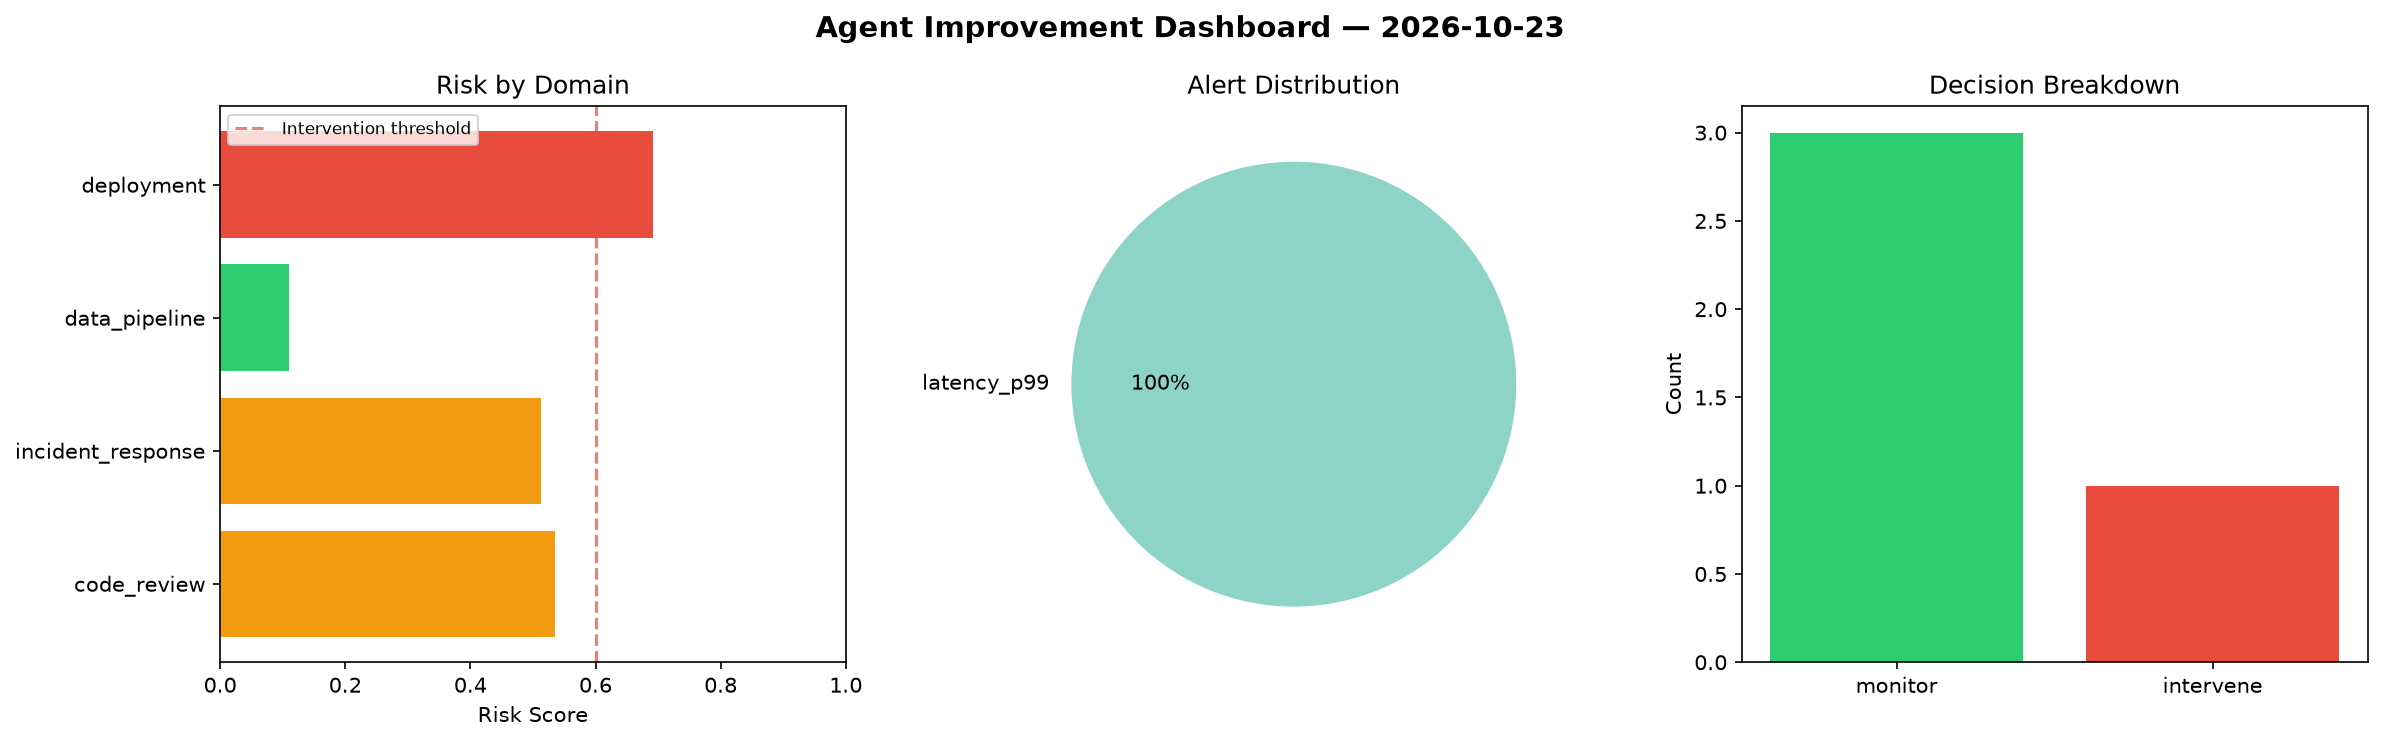
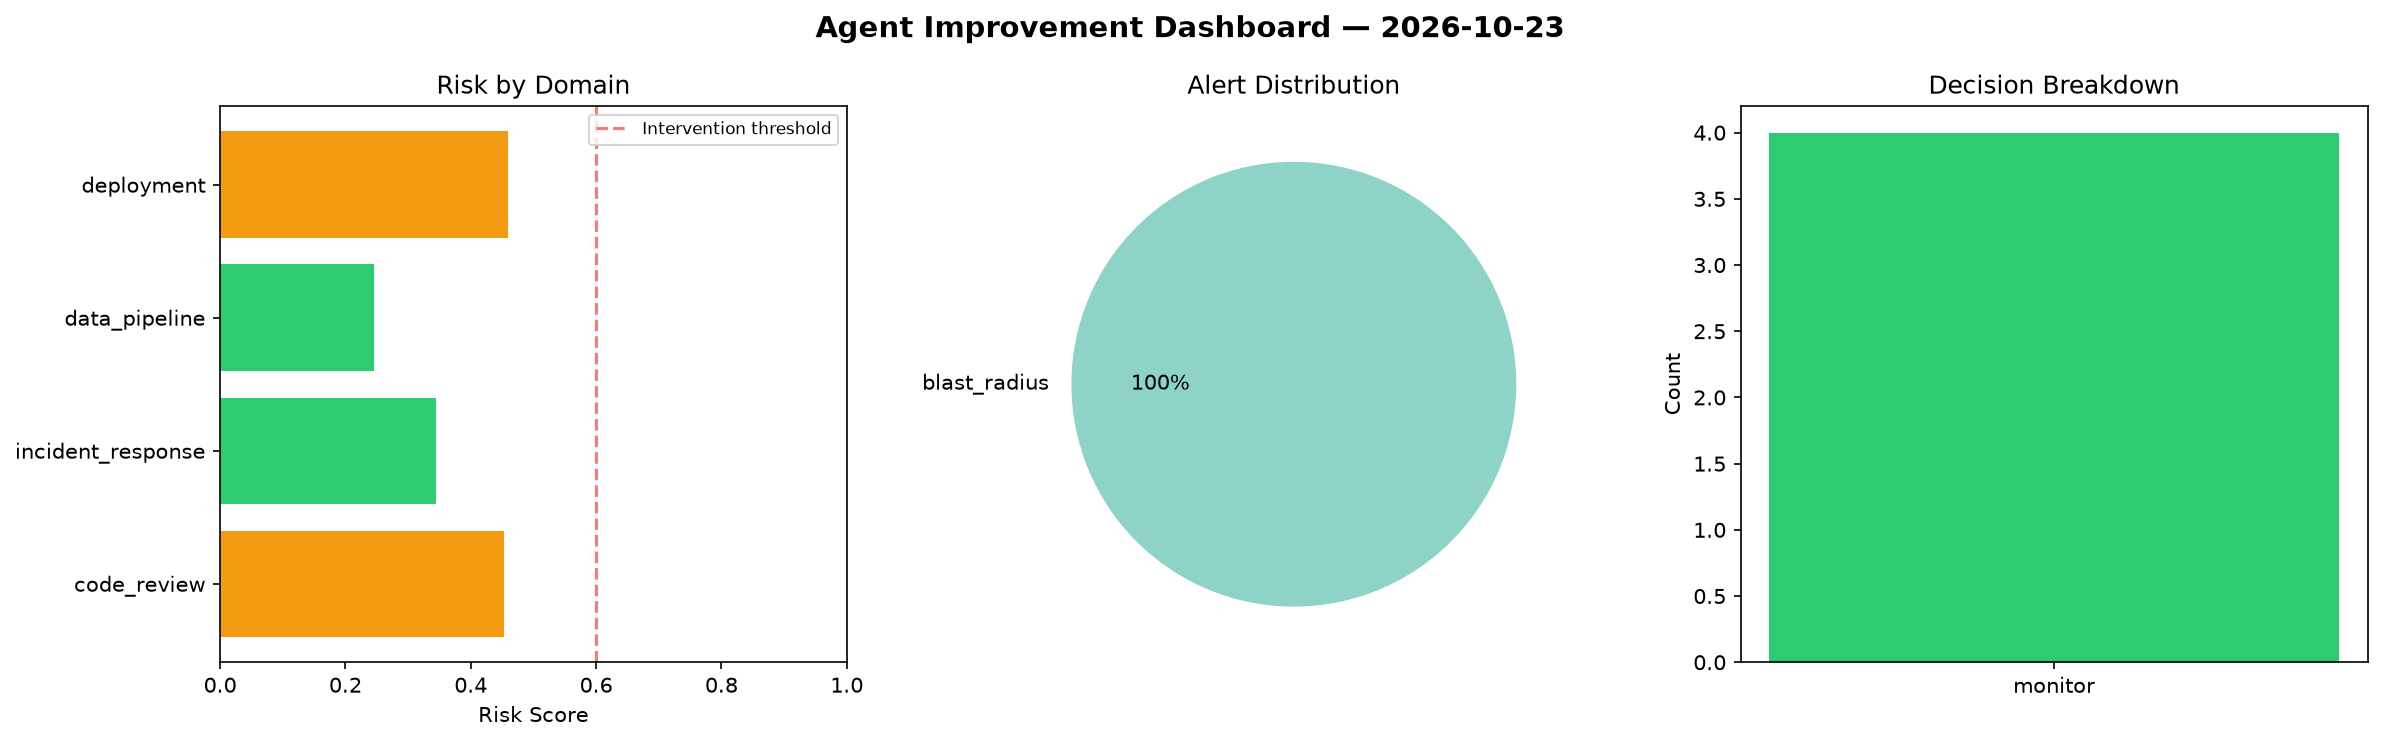
agent-improvement: daily cycle 2026-10-23T18:22

diff --git a/logs/2026-10-23.md b/logs/2026-10-23.md
@@ -1,6 +1,6 @@
 # Agent Improvement Report — 2026-10-23
 
-**Cycle ID:** `eebb1739` | **Avg Risk:** 0.4624 | **Interventions:** 1/4
+**Cycle ID:** `3c8c8497` | **Avg Risk:** 0.3752 | **Interventions:** 0/4
 
 ![Dashboard](2026-10-23_dashboard.png)
 
@@ -10,18 +10,18 @@
 
 | Domain | Risk Score | Decision | Alerts |
 |--------|-----------|----------|--------|
-| code_review | 0.5348 | monitor | none |
-| incident_response | 0.5127 | monitor | none |
-| data_pipeline | 0.1102 | monitor | none |
-| deployment | 0.6918 | intervene | latency_p99 |
+| code_review | 0.4522 | monitor | none |
+| incident_response | 0.344 | monitor | blast_radius |
+| data_pipeline | 0.2453 | monitor | none |
+| deployment | 0.4592 | monitor | none |
 
 ## Delta vs Yesterday
 
 | Domain | Today | Yesterday | Change |
 |--------|-------|-----------|--------|
-| code_review | 0.5348 | 0.527 | 📈 1.5% |
-| incident_response | 0.5127 | 0.5378 | 📉 -4.7% |
-| data_pipeline | 0.1102 | 0.493 | 📉 -77.6% |
-| deployment | 0.6918 | 0.5244 | 📈 31.9% |
+| code_review | 0.4522 | 0.527 | 📉 -14.2% |
+| incident_response | 0.344 | 0.5378 | 📉 -36.0% |
+| data_pipeline | 0.2453 | 0.493 | 📉 -50.2% |
+| deployment | 0.4592 | 0.5244 | 📉 -12.4% |
 
 **Refinement:** `{'adjustment': 'tighten_thresholds', 'trend': 'degrading', 'window': 4}`
